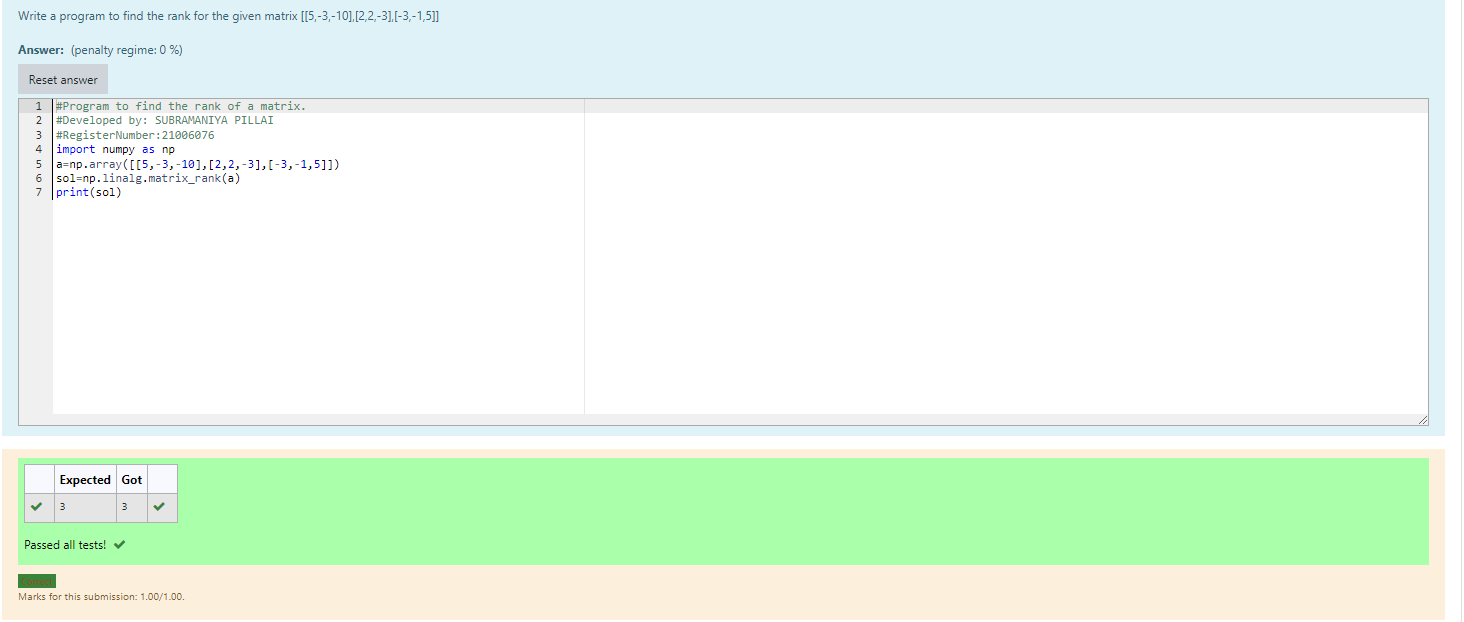
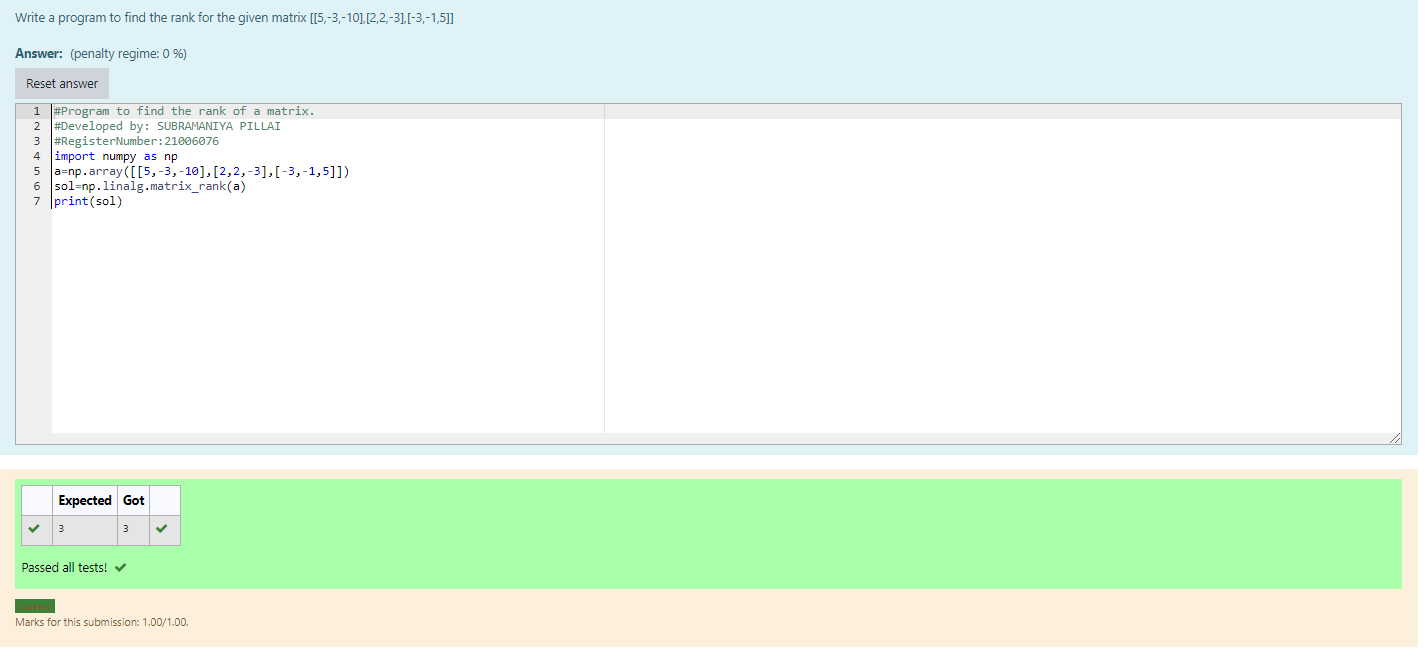
rank

Changed region(s): [[0.0, 0.0, 1.0, 1.0]]

diff --git a/README.md b/README.md
@@ -10,7 +10,13 @@ To write a python program to find the rank of a matrix
 ### Step 3: Using the np.linalg.matrix_rank(), we can find the rank of the given matrix.
 ### Step 4: 
 ## Program:
-## Output:
+```
+import numpy as np
+a=np.array([[5,-3,-10],[2,2,-3],[-3,-1,5]])
+sol=np.linalg.matrix_rank(a)
+print(sol)
+```
+## Output:![logo](./screen.png)
 ## Result:
 Thus the rank for the given matrix is successfully solved by  using a python program.
 
